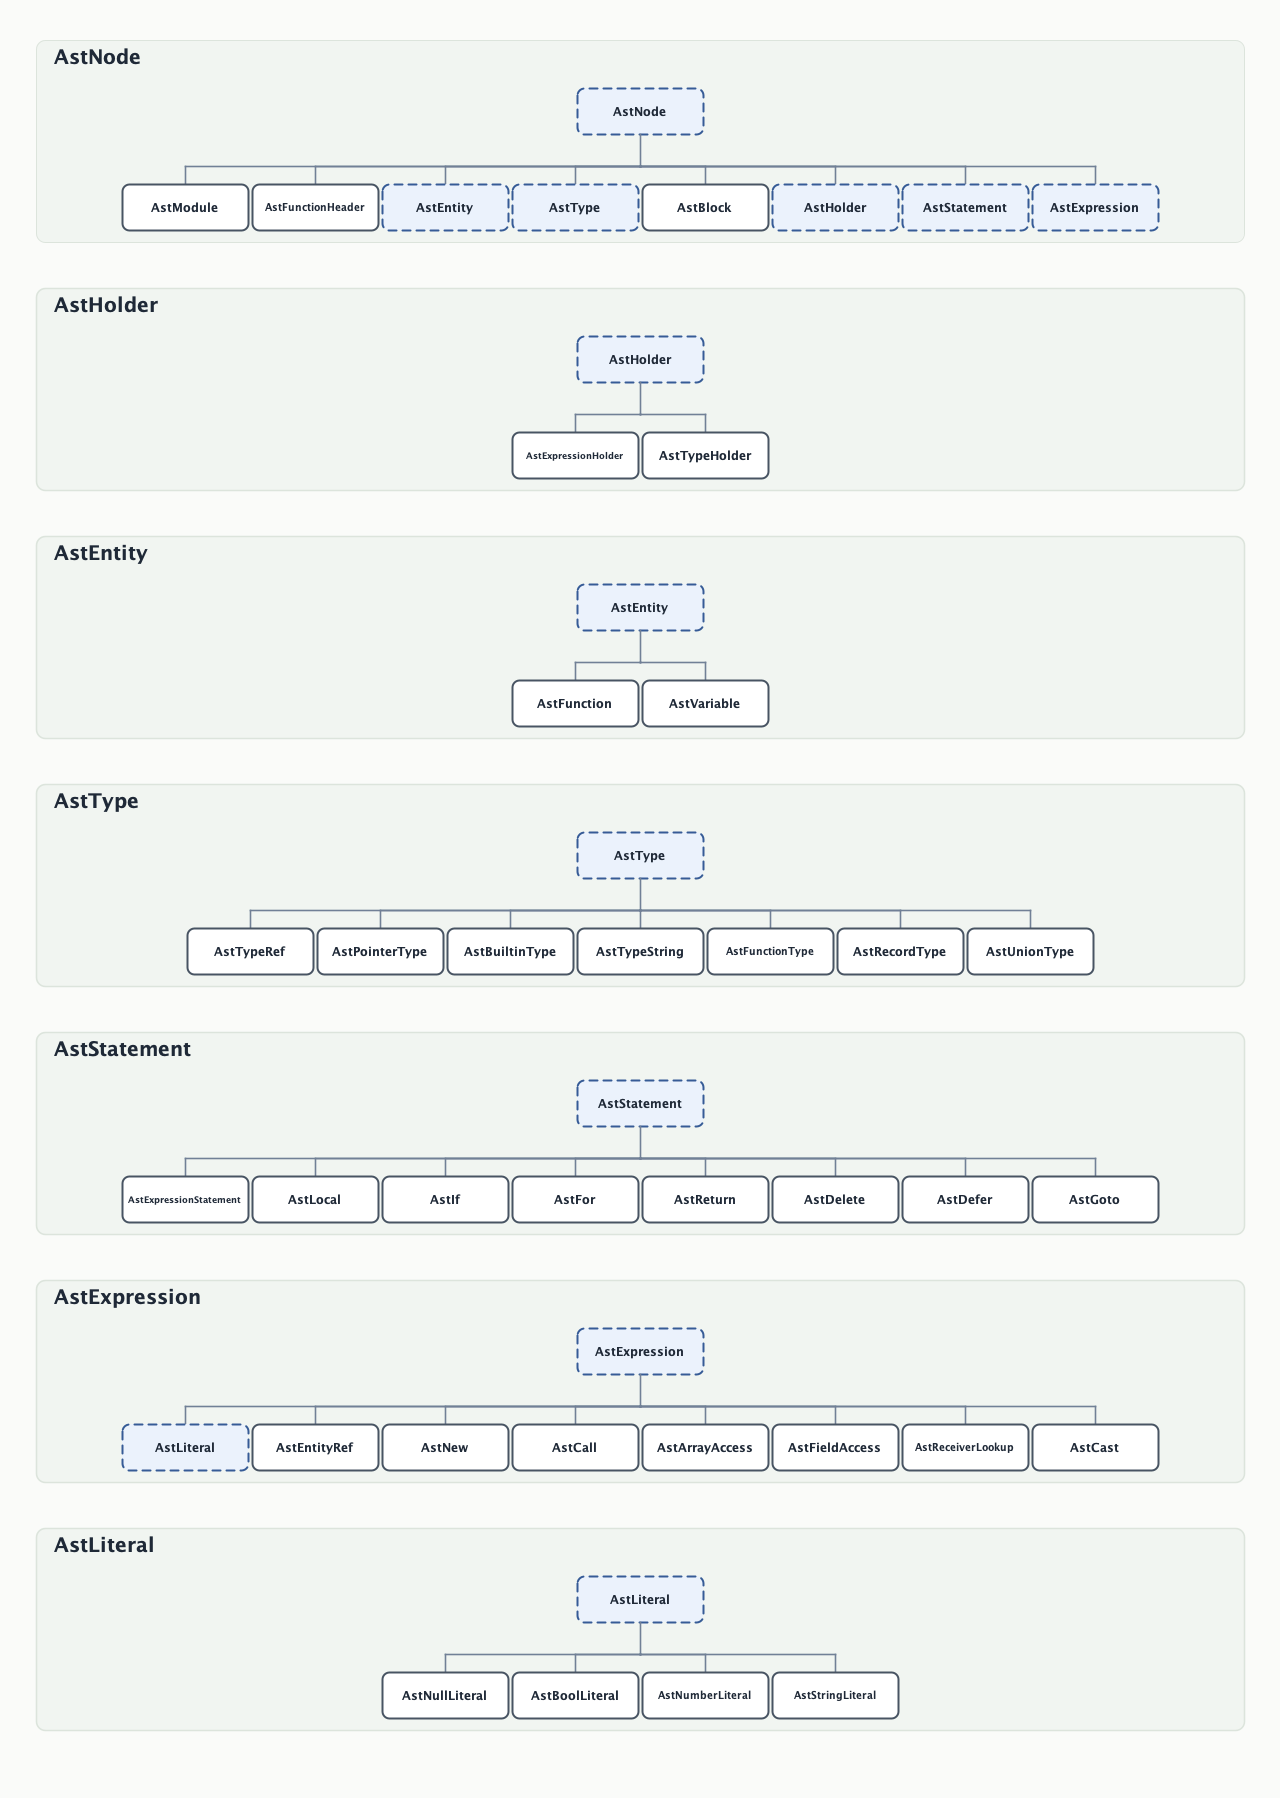
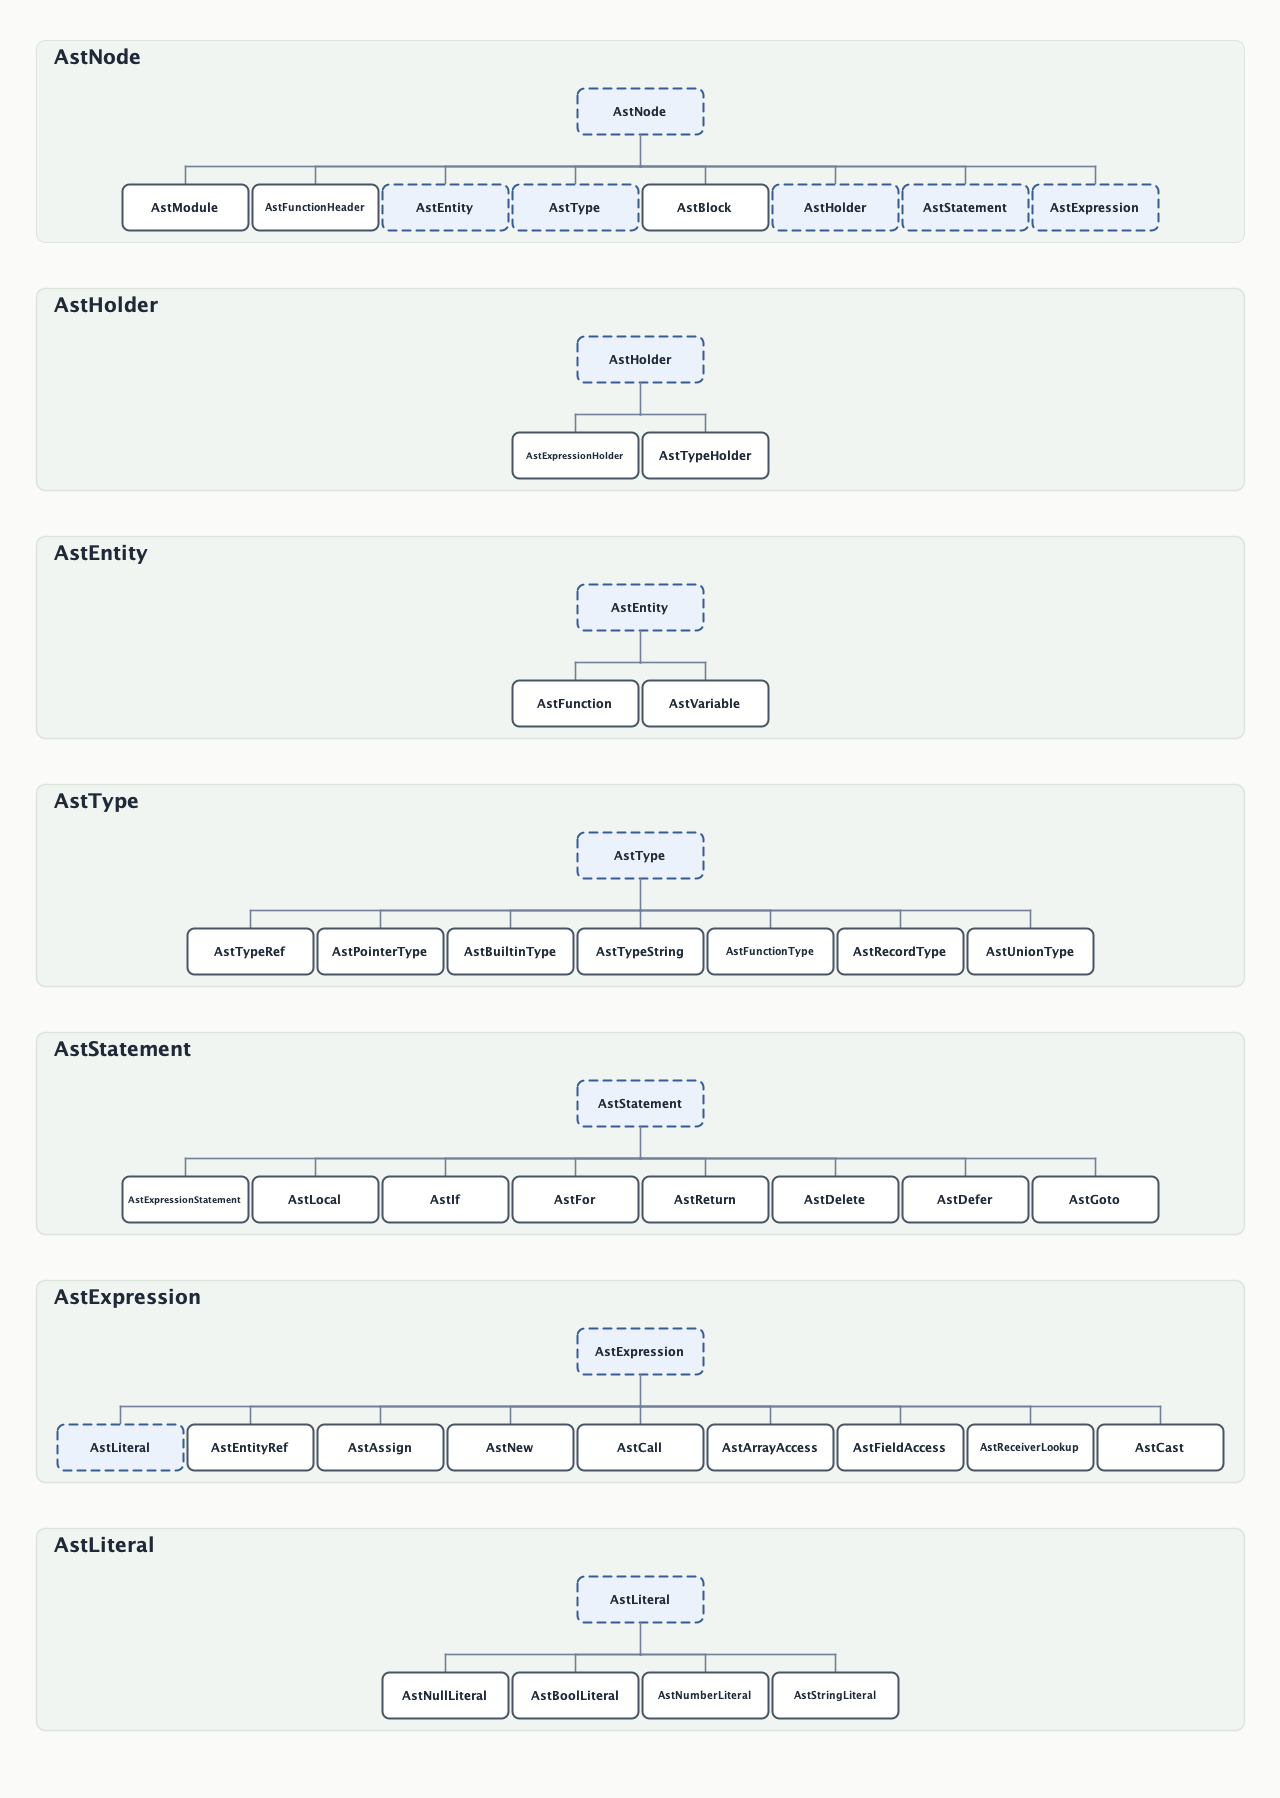
Assignment

diff --git a/src/test/java/com/github/idemura/cimple/compiler/parser/ParserTest.java b/src/test/java/com/github/idemura/cimple/compiler/parser/ParserTest.java
@@ -8,6 +8,7 @@ import com.github.idemura.cimple.compiler.CompilerException;
 import com.github.idemura.cimple.compiler.ErrorConsumer;
 import com.github.idemura.cimple.compiler.Identifier;
 import com.github.idemura.cimple.compiler.InMemoryErrorConsumer;
+import com.github.idemura.cimple.compiler.ast.AstAssign;
 import com.github.idemura.cimple.compiler.ast.AstArrayAccess;
 import com.github.idemura.cimple.compiler.ast.AstCall;
 import com.github.idemura.cimple.compiler.ast.AstCast;
@@ -513,6 +514,53 @@ class ParserTest {
           assertEquals(AstNumberLiteral.of(1), call.arguments().get(0));
           assertEquals(AstNumberLiteral.of(2), call.arguments().get(1));
         }
+      }
+    }
+  }
+
+  @Test
+  void testAssignmentExpressionParsing() {
+    var code =
+        """
+        module test;
+        function f() {
+          a = b = c;
+          var x = a + (b = c);
+          foo(a = b);
+        }
+        """;
+    var module = parseCode(code, makeErrorConsumer());
+    var statements = module.findFunction("f").block().statements();
+    assertEquals(3, statements.size());
+    {
+      var expr = ((AstExpressionStatement) statements.get(0)).expression().value();
+      var assign = (AstAssign) expr;
+      assertEquals(newEntityRef("a"), assign.target());
+      {
+        var nestedAssign = (AstAssign) assign.value();
+        assertEquals(newEntityRef("b"), nestedAssign.target());
+        assertEquals(newEntityRef("c"), nestedAssign.value());
+      }
+    }
+    {
+      var expr = ((AstLocal) statements.get(1)).variable().expression().value();
+      var call = (AstCall) expr;
+      assertEquals(newBuiltinEntityRef("+"), call.function());
+      assertEquals(newEntityRef("a"), call.arguments().get(0));
+      {
+        var assign = (AstAssign) call.arguments().get(1);
+        assertEquals(newEntityRef("b"), assign.target());
+        assertEquals(newEntityRef("c"), assign.value());
+      }
+    }
+    {
+      var expr = ((AstExpressionStatement) statements.get(2)).expression().value();
+      var call = (AstCall) expr;
+      assertEquals(newEntityRef("foo"), call.function());
+      {
+        var assign = (AstAssign) call.arguments().get(0);
+        assertEquals(newEntityRef("a"), assign.target());
+        assertEquals(newEntityRef("b"), assign.value());
       }
     }
   }

diff --git a/src/main/java/com/github/idemura/cimple/compiler/ast/AstAssign.java b/src/main/java/com/github/idemura/cimple/compiler/ast/AstAssign.java
@@ -1,0 +1,45 @@
+package com.github.idemura.cimple.compiler.ast;
+
+public final class AstAssign extends AstExpression {
+  private AstExpression target;
+  private AstExpression value;
+
+  @Override
+  public void accept(AstVisitor visitor) {
+    visitor.visit(this);
+  }
+
+  @Override
+  public void acceptChildren(AstVisitor visitor) {
+    target.accept(visitor);
+    value.accept(visitor);
+  }
+
+  @Override
+  public AstExpression rewrite(AstExpressionRewriter rewriter) {
+    target = target.rewrite(rewriter);
+    value = value.rewrite(rewriter);
+    return rewriter.rewrite(this);
+  }
+
+  @Override
+  public AstType type() {
+    return value.type();
+  }
+
+  public AstExpression target() {
+    return target;
+  }
+
+  public void target(AstExpression target) {
+    this.target = target;
+  }
+
+  public AstExpression value() {
+    return value;
+  }
+
+  public void value(AstExpression value) {
+    this.value = value;
+  }
+}

diff --git a/src/test/java/com/github/idemura/cimple/compiler/semantics/PreprocessVisitorTest.java b/src/test/java/com/github/idemura/cimple/compiler/semantics/PreprocessVisitorTest.java
@@ -56,6 +56,41 @@ class PreprocessVisitorTest extends AbstractSemanticsTest {
   }
 
   @Test
+  void testAssignmentAtExpressionRoot() {
+    var code =
+        """
+        module test;
+        function f() {
+          a = b;
+        }
+        """;
+    var module = parseCode(code);
+    module.accept(new PreprocessVisitor(Keyword.valueList(), errorConsumer));
+    assertEquals(List.of(), errorConsumer.errors());
+  }
+
+  @Test
+  void testAssignmentPlacementFailures() {
+    var code =
+        """
+        module test;
+        function f() {
+          a = b = c;
+          var x = a + (b = c);
+          foo(a = b);
+        }
+        """;
+    var module = parseCode(code);
+    module.accept(new PreprocessVisitor(Keyword.valueList(), errorConsumer));
+    assertEquals(
+        List.of(
+            "Assignment is only allowed at the root of an expression",
+            "Assignment is only allowed at the root of an expression",
+            "Assignment is only allowed at the root of an expression"),
+        errorConsumer.errors());
+  }
+
+  @Test
   void testReservedNameFailures() {
     var code =
         """

diff --git a/src/main/java/com/github/idemura/cimple/compiler/parser/Parser.java b/src/main/java/com/github/idemura/cimple/compiler/parser/Parser.java
@@ -7,6 +7,7 @@ import com.github.idemura.cimple.compiler.CompilerException;
 import com.github.idemura.cimple.compiler.ErrorConsumer;
 import com.github.idemura.cimple.compiler.Identifier;
 import com.github.idemura.cimple.compiler.Location;
+import com.github.idemura.cimple.compiler.ast.AstAssign;
 import com.github.idemura.cimple.compiler.ast.AstArrayAccess;
 import com.github.idemura.cimple.compiler.ast.AstBlock;
 import com.github.idemura.cimple.compiler.ast.AstCall;
@@ -310,7 +311,27 @@ public class Parser {
   }
 
   private AstExpression parseExpression() {
-    return parseComparisonChain();
+    return parseAssignment();
+  }
+
+  private AstExpression parseAssignment() {
+    var target = parseComparisonChain();
+    if (target == null) {
+      return null;
+    }
+    var current = tokenizer.current();
+    if (!tokenizer.takeIf(ASSIGN)) {
+      return target;
+    }
+    var value = parseAssignment();
+    if (value == null) {
+      throw errorConsumer.fatalAt(current.location(), "Expected expression after %s", current);
+    }
+    var expr = new AstAssign();
+    expr.target(target);
+    expr.value(value);
+    expr.location(current.location());
+    return expr;
   }
 
   private AstExpression parseComparisonChain() {

diff --git a/src/main/java/com/github/idemura/cimple/compiler/ast/AstExpressionRewriter.java b/src/main/java/com/github/idemura/cimple/compiler/ast/AstExpressionRewriter.java
@@ -1,6 +1,22 @@
 package com.github.idemura.cimple.compiler.ast;
 
 public class AstExpressionRewriter {
+  private AstExpression root;
+
+  public final AstExpression rewriteRoot(AstExpression root) {
+    var previous = this.root;
+    try {
+      this.root = root;
+      return root.rewrite(this);
+    } finally {
+      this.root = previous;
+    }
+  }
+
+  protected AstExpression root() {
+    return root;
+  }
+
   public AstExpression rewrite(AstNullLiteral node) {
     return node;
   }
@@ -18,6 +34,10 @@ public class AstExpressionRewriter {
   }
 
   public AstExpression rewrite(AstEntityRef node) {
+    return node;
+  }
+
+  public AstExpression rewrite(AstAssign node) {
     return node;
   }
 

diff --git a/src/main/java/com/github/idemura/cimple/compiler/semantics/PreprocessVisitor.java b/src/main/java/com/github/idemura/cimple/compiler/semantics/PreprocessVisitor.java
@@ -6,6 +6,7 @@ import static java.lang.Long.parseLong;
 import com.github.idemura.cimple.compiler.ErrorConsumer;
 import com.github.idemura.cimple.compiler.Identifier;
 import com.github.idemura.cimple.compiler.Location;
+import com.github.idemura.cimple.compiler.ast.AstAssign;
 import com.github.idemura.cimple.compiler.ast.AstBoolLiteral;
 import com.github.idemura.cimple.compiler.ast.AstBuiltinType;
 import com.github.idemura.cimple.compiler.ast.AstEntityRef;
@@ -189,6 +190,15 @@ class PreprocessVisitor extends AstExpressionRewriteVisitor {
     ExpressionRewriter(ReservedWords reservedWords, ErrorConsumer errorConsumer) {
       this.reservedWords = reservedWords;
       this.errorConsumer = errorConsumer;
+    }
+
+    @Override
+    public AstExpression rewrite(AstAssign node) {
+      if (node != root()) {
+        errorConsumer.errorAt(
+            node.location(), "Assignment is only allowed at the root of an expression");
+      }
+      return node;
     }
 
     @Override

diff --git a/src/main/java/com/github/idemura/cimple/compiler/ast/AstVisitor.java b/src/main/java/com/github/idemura/cimple/compiler/ast/AstVisitor.java
@@ -111,6 +111,10 @@ public abstract class AstVisitor {
     node.acceptChildren(this);
   }
 
+  protected void visit(AstAssign node) {
+    node.acceptChildren(this);
+  }
+
   protected void visit(AstNew node) {
     node.acceptChildren(this);
   }

diff --git a/src/main/java/com/github/idemura/cimple/compiler/ast/AstExpressionRewriteVisitor.java b/src/main/java/com/github/idemura/cimple/compiler/ast/AstExpressionRewriteVisitor.java
@@ -9,7 +9,7 @@ public class AstExpressionRewriteVisitor extends AstVisitor {
 
   @Override
   protected void visit(AstExpressionHolder node) {
-    node.value(node.value().rewrite(rewriter));
+    node.value(rewriter.rewriteRoot(node.value()));
     // Do not visit children. Rewriter will do this.
   }
 }

diff --git a/src/main/java/com/github/idemura/cimple/compiler/ast/AstExpression.java b/src/main/java/com/github/idemura/cimple/compiler/ast/AstExpression.java
@@ -2,6 +2,7 @@ package com.github.idemura.cimple.compiler.ast;
 
 public abstract sealed class AstExpression extends AstNode
     permits AstCall,
+        AstAssign,
         AstEntityRef,
         AstArrayAccess,
         AstFieldAccess,